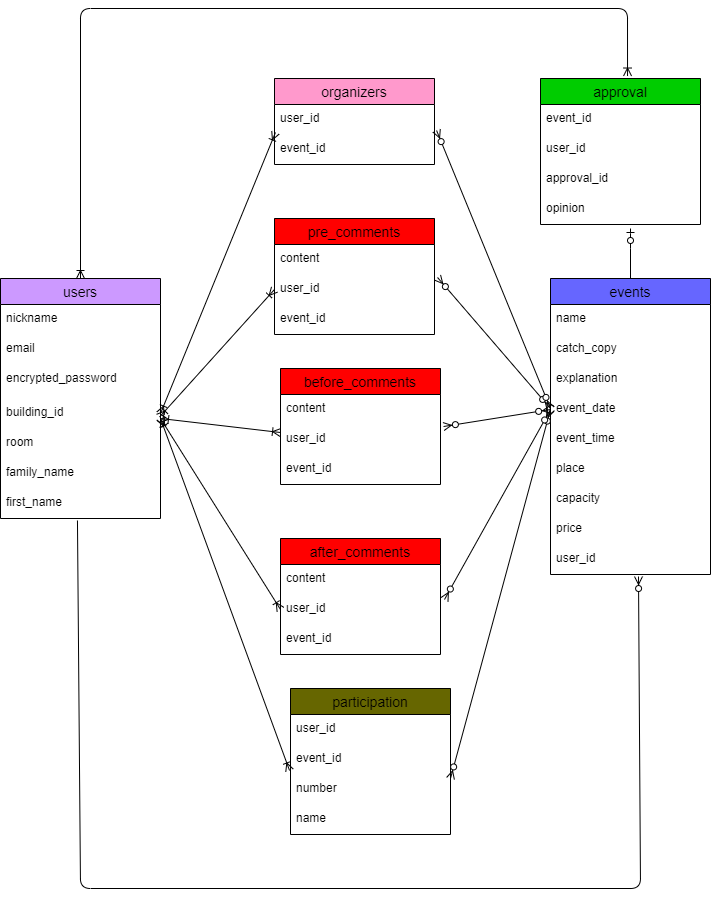
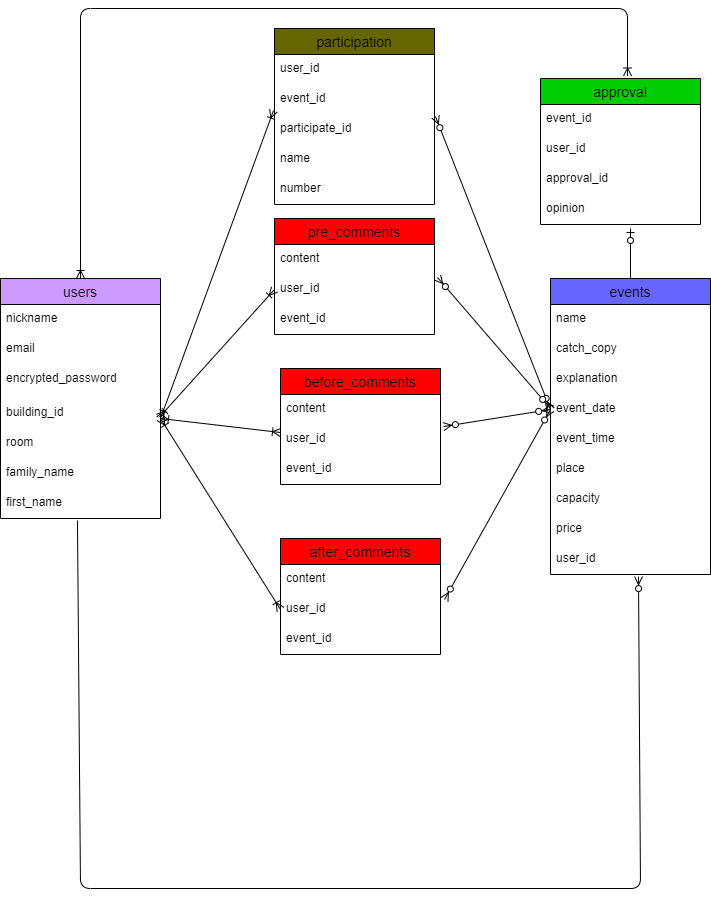
ER図、READMEの修正

diff --git a/README.md b/README.md
@@ -65,4 +65,4 @@ rails db:create
 
 # 工夫したポイント
 ログインユーザーによって6つの属性があり、イベントの状況によって3つの区分けがあるので  表示の有無や表示の位置、編集できる範囲を分けることに苦労した。  
-今後コメント昨日と画像投稿機能を実装し、アプリ内で審議やミーティングを行い、イベント開催後には画像投稿で思い出と反省点を残せるようにしたいと考えている。
+今後コメント機能と画像投稿機能を実装し、アプリ内で審議やミーティングを行い、イベント開催後には画像投稿で思い出と反省点を残せるようにしたいと考えている。
